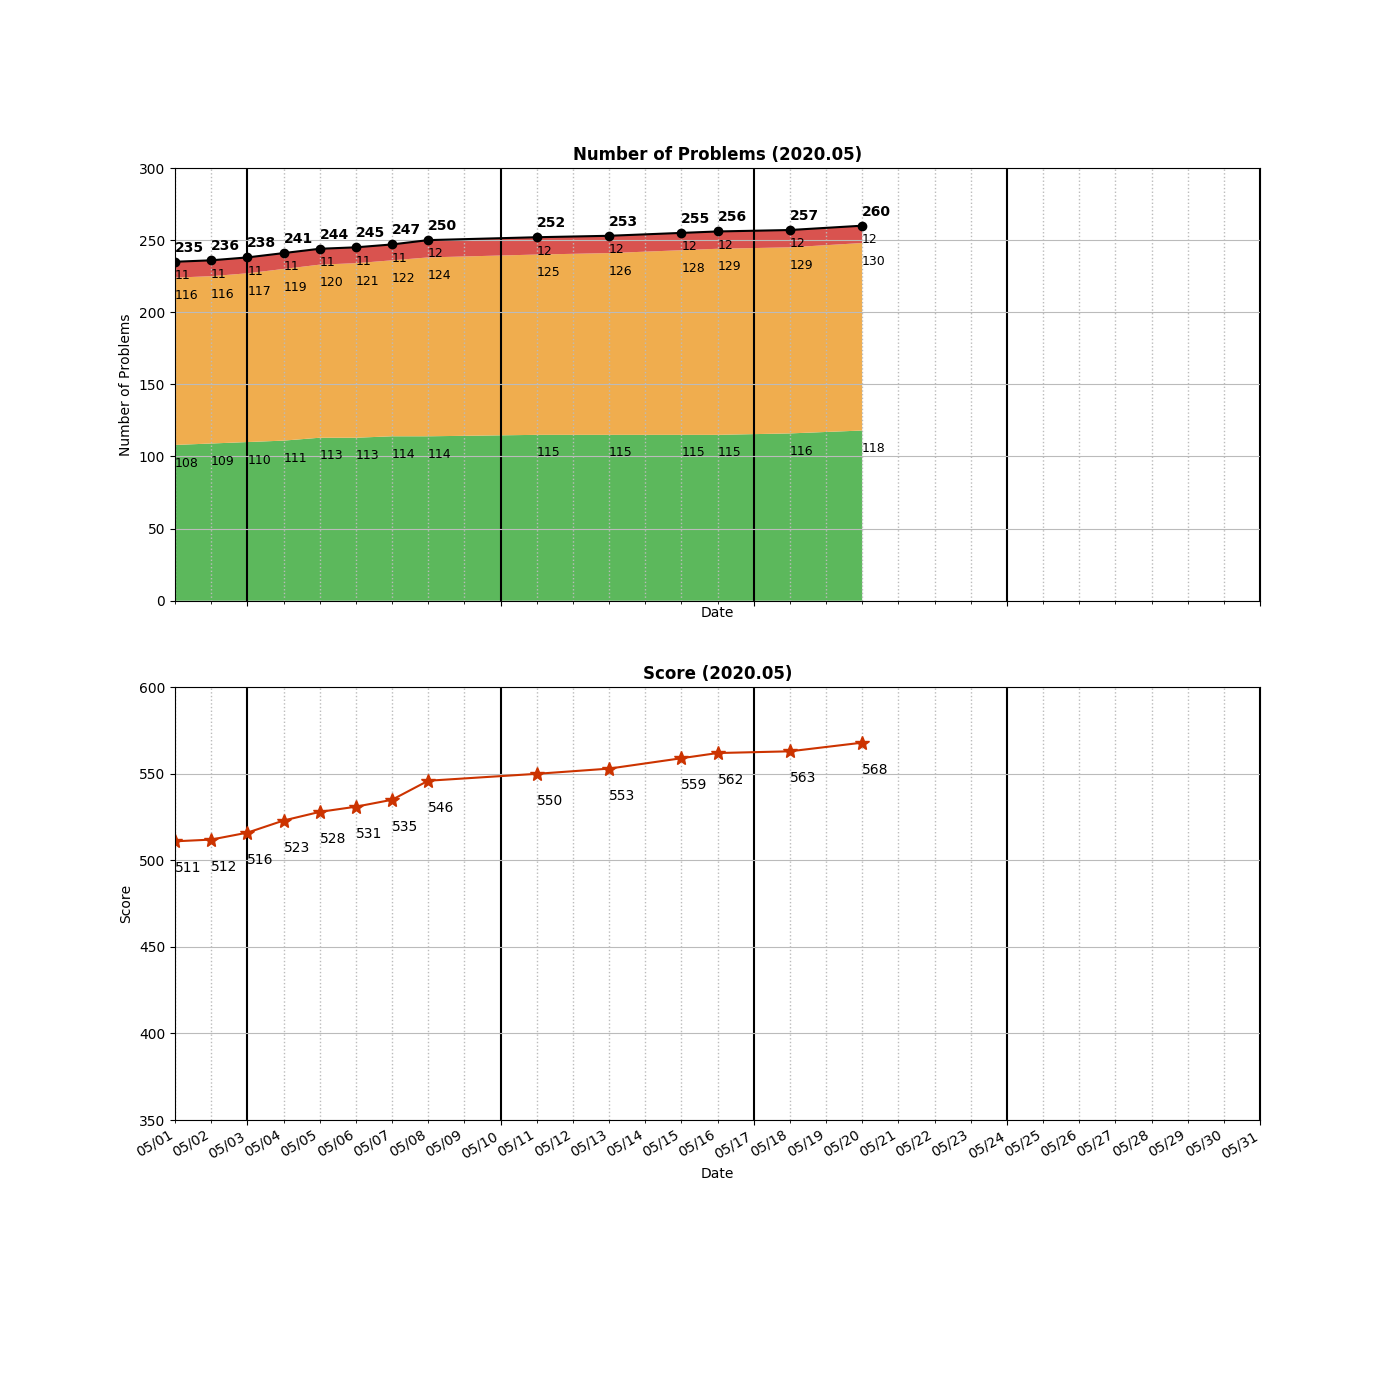
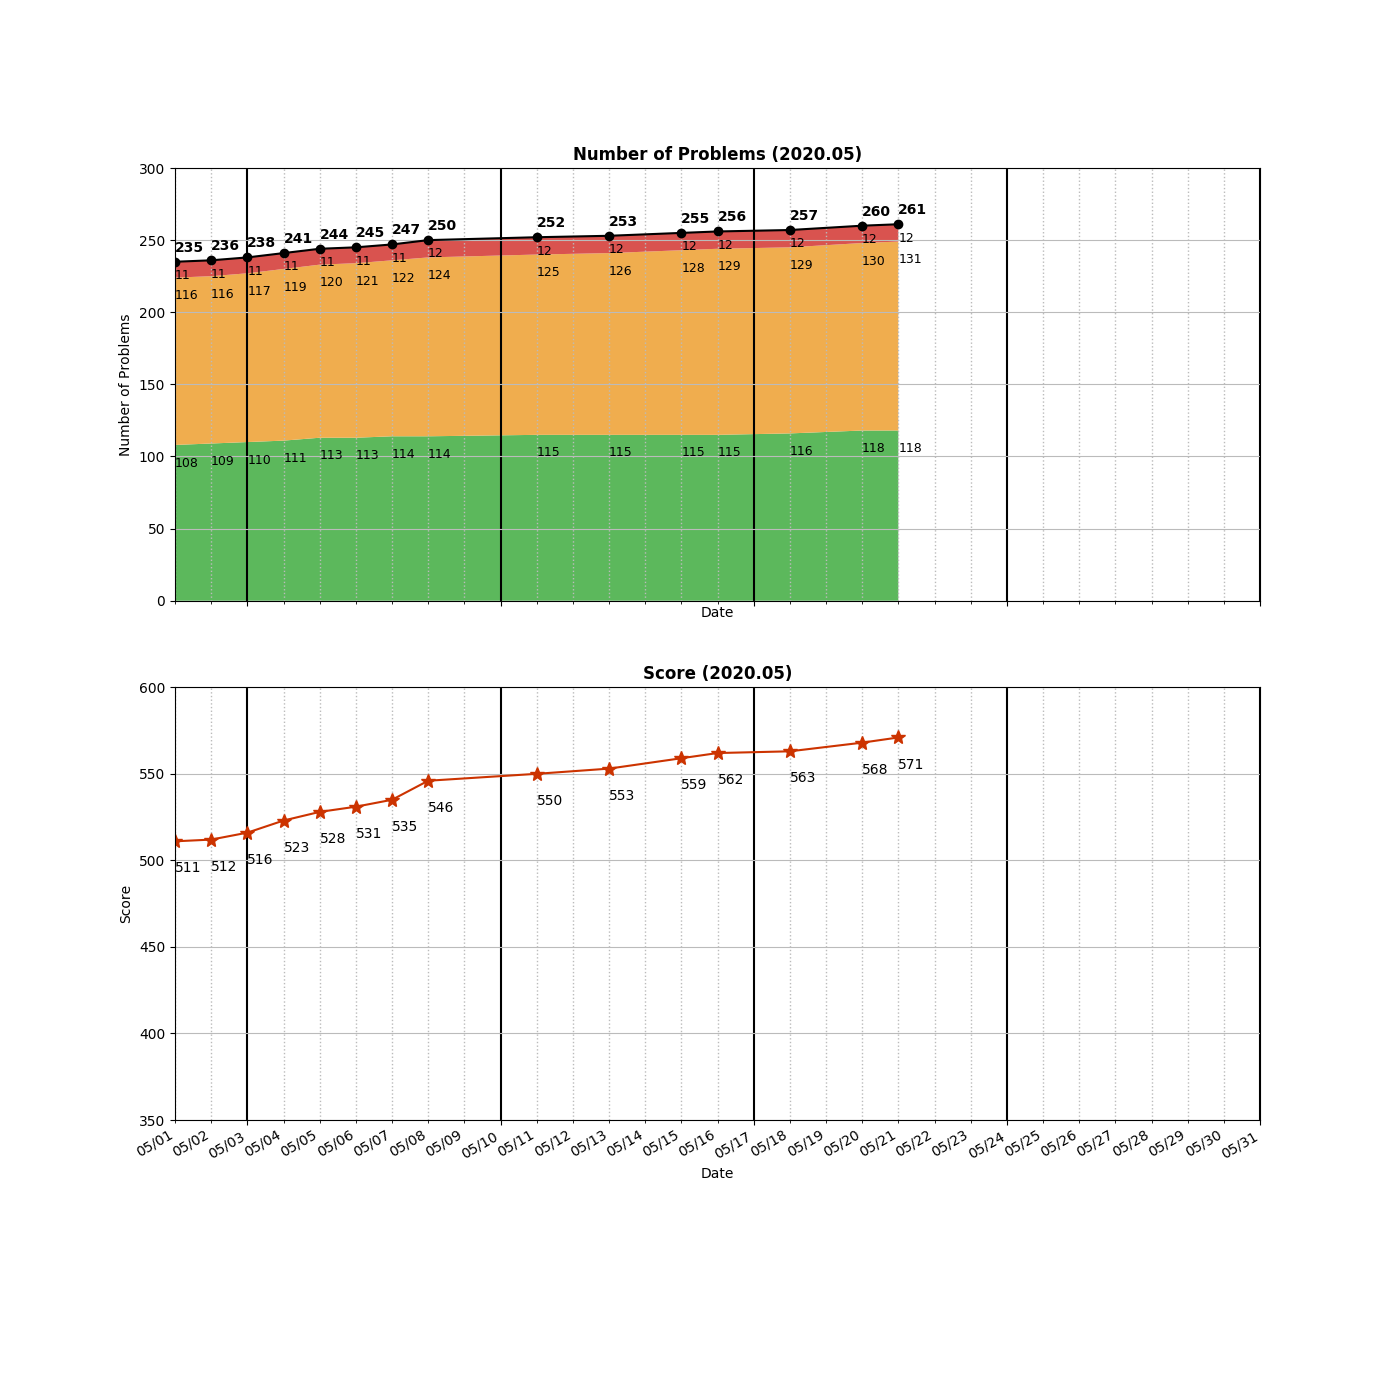
Added _0362_DesignHitCounter.py

Changed region(s): [[0.6143, 0.1536, 0.645, 0.43], [0.6143, 0.5221, 0.645, 0.5529]]

diff --git a/algo/data-structure/_0362_DesignHitCounter.py b/algo/data-structure/_0362_DesignHitCounter.py
@@ -1,0 +1,69 @@
+# Dictionary to store the counts 
+class HitCounter:
+
+    # hit: O(1), getHits: O(n) [54%]  //remove the staled pairs on the fly
+    # hit: O(1), getHits: O(n) [6%]   //just skip the staled pairs
+    def __init__(self):
+        """
+        Initialize your data structure here.
+        """
+        self.count = {}
+        
+    def hit(self, timestamp: int) -> None:
+        """
+        Record a hit.
+        @param timestamp - The current timestamp (in seconds granularity).
+        """
+        if timestamp in self.count:
+            self.count[timestamp] += 1
+        else:
+            self.count[timestamp] = 1
+
+    def getHits(self, timestamp: int) -> int:
+        """
+        Return the number of hits in the past 5 minutes.
+        @param timestamp - The current timestamp (in seconds granularity).
+        """
+        res = 0
+        for k in list(self.count.keys()):   #need to convert it to list so that we can delete the staled ones
+            if k > timestamp - 300:
+                res += self.count[k]
+            else:
+                del self.count[k]
+        return res
+
+# ==============================================================
+
+# Deque to store the timestamps
+class HitCounter1:
+
+    # hit: O(1), getHits: O(n) [15%]
+    def __init__(self):
+        """
+        Initialize your data structure here.
+        """
+        self.count = collections.deque([])
+        self.validSeconds = 5 * 60 
+        
+    def hit(self, timestamp: int) -> None:
+        """
+        Record a hit.
+        @param timestamp - The current timestamp (in seconds granularity).
+        """
+        self.count.append(timestamp)
+
+    def getHits(self, timestamp: int) -> int:
+        """
+        Return the number of hits in the past 5 minutes.
+        @param timestamp - The current timestamp (in seconds granularity).
+        """
+        lastValidTime = timestamp - self.validSeconds
+        while self.count and self.count[0] <= lastValidTime:
+            self.count.popleft()
+        return len(self.count)
+
+
+# Your HitCounter object will be instantiated and called as such:
+# obj = HitCounter()
+# obj.hit(timestamp)
+# param_2 = obj.getHits(timestamp)

diff --git a/README.md b/README.md
@@ -81,6 +81,7 @@ algo
 ├── bits
 │   └── _0268_MissingNumber.py
 ├── data-structure
+│   ├── _0362_DesignHitCounter.py
 │   └── _0846_HandOfStraights.py
 ├── dfs
 │   ├── _0017_LetterCombinationsOfAPhoneNumber.py
@@ -281,7 +282,7 @@ algo
     ├── _0127_WordLadder.py
     └── wordladder.py
 
-22 directories, 258 files
+22 directories, 259 files
 
 =====================================
 ============= Local Repo ============
@@ -443,6 +444,7 @@ _0349_IntersectionOfTwoArrays.py
 _0350_IntersectionOfTwoArrays2.py
 _0354_RussianDollEnvelopes.py
 _0359_LoggerRateLimiter.py
+_0362_DesignHitCounter.py
 _0367_ValidPerfectSquare.py
 _0378_KthSmallestElementInASortedMatrix.py
 _0380_InsertDeleteGetRandomO(1).py
@@ -543,7 +545,7 @@ _1391_CheckIfThereIsAValidPathInAGrid.py
 _1427_PerformStringShifts.py
 _305_NumberOfIslands2.py
 =====================================
-Num of Python Practice:  256
+Num of Python Practice:  257
 
 
 =====================================
@@ -707,6 +709,7 @@ Num of Python Practice:  256
  0350 Intersection of Two Arrays II
  0354 Russian Doll Envelopes
  0359 Logger Rate Limiter
+ 0362 Design Hit Counter
  0367 Valid Perfect Square
  0378 Kth Smallest Element in a Sorted Matrix
  0380 Insert Delete GetRandom O(1)
@@ -811,10 +814,10 @@ Num of Python Practice:  256
  1427 Perform String Shifts
 =====================================
 Solved / Total (Easy)  :  118 /  407
-Solved / Total (Medium):  130 /  742
+Solved / Total (Medium):  131 /  743
 Solved / Total (Hard)  :   12 /  304
-Solved / Total (All)   :  260 / 1453
-Total Score            :  568
+Solved / Total (All)   :  261 / 1454
+Total Score            :  571
 =====================================
 
 ```
